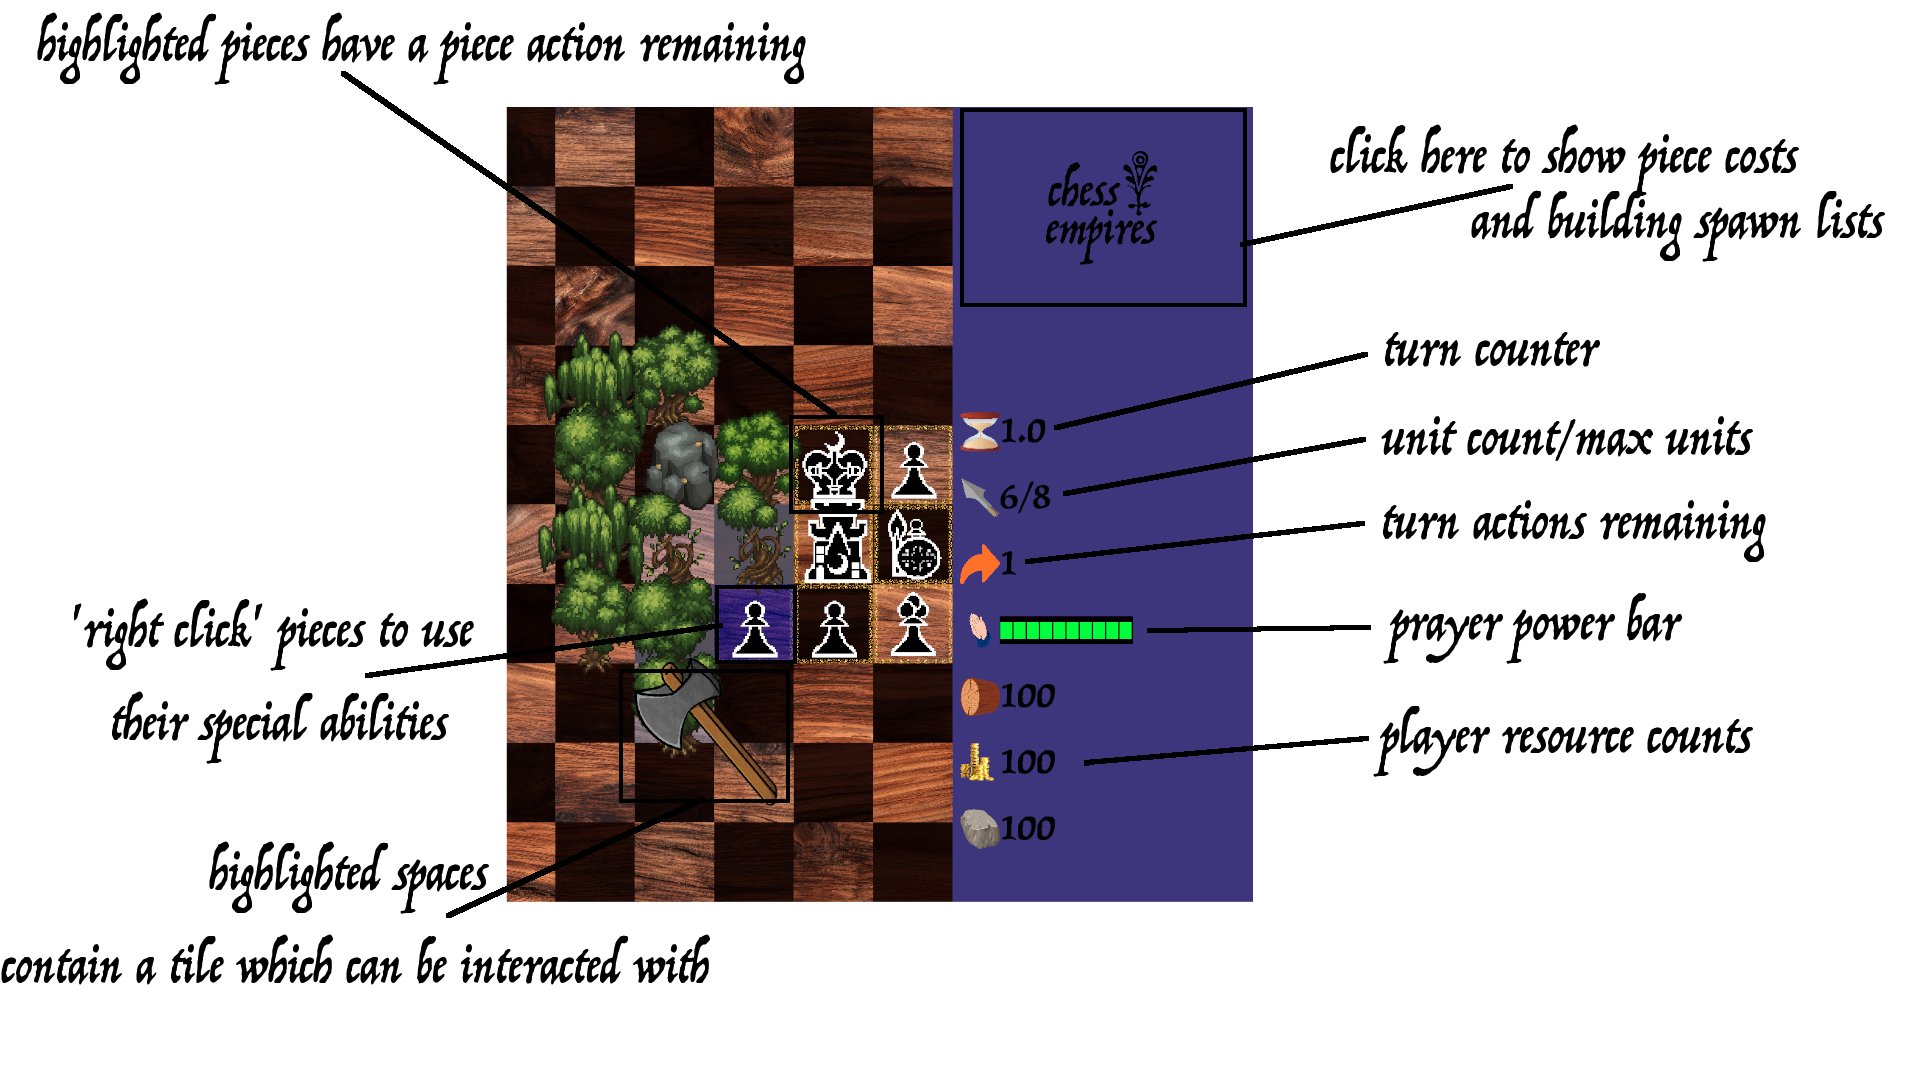
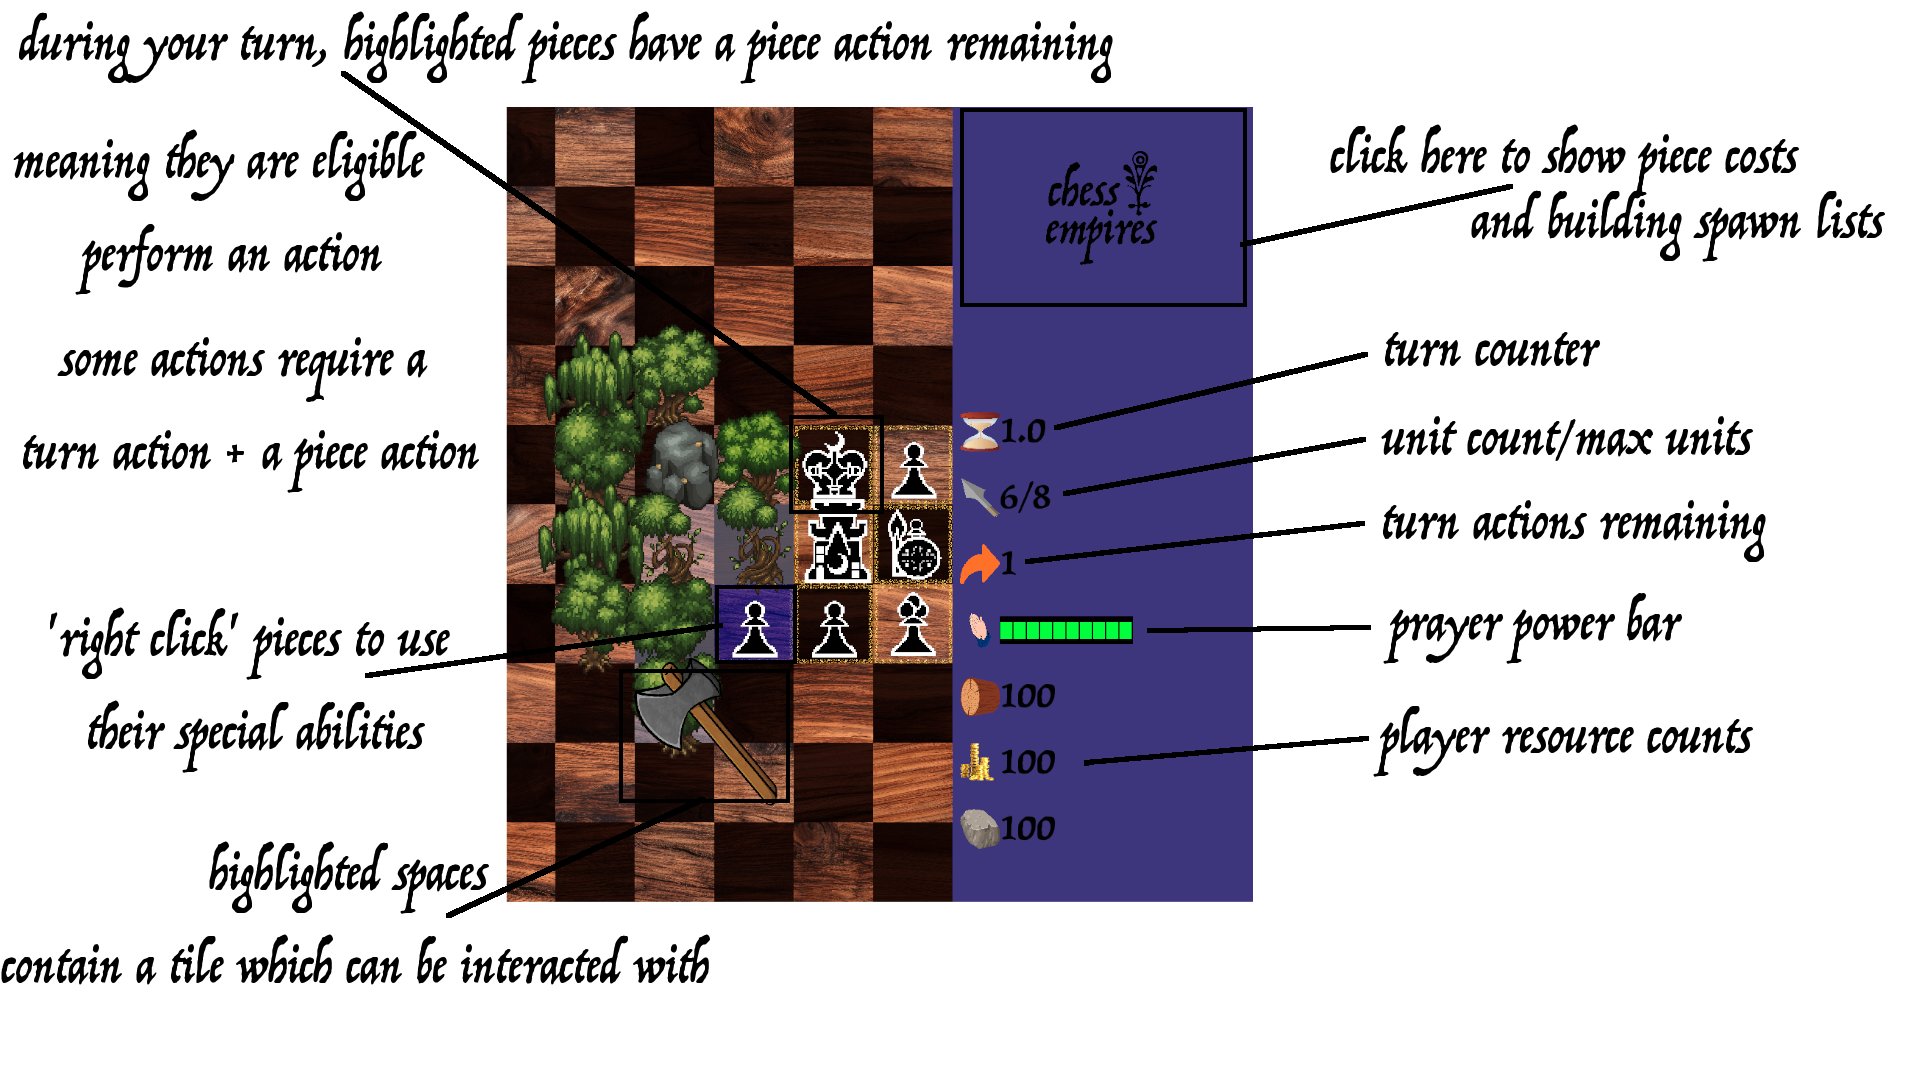
Completed 11 instructional documents and added them to the instructions menu. Gameplay should be much more intuitive now

diff --git a/Menu.py b/Menu.py
@@ -1210,7 +1210,7 @@ class Encyclopedia(Menu):
 
     def get_menu_logo(self, piece):
         menu_logo = None
-        if piece != "Costs":
+        if piece != "costs":
             try:
                 piece = self.engine.turn + "_" + str(self)
             except TypeError:
@@ -1326,9 +1326,12 @@ class PieceDescription(Encyclopedia):
             count = sum(
                     1 for cost in Constant.PIECE_COSTS[self.selected] if Constant.PIECE_COSTS[self.selected][cost] != 0)
             full_length = self.resources['wood'].get_width() * count + (self.x_buffer_between_costs // 2) * count
-            self.cost_display_x = self.window_width // 2 - full_length // 2 + self.board_x // 2 + self.board_surface.get_width() // 2
-            self.title_text_display_x = self.window_width // 2 - self.title_text_width // 2 + self.board_x // 2 + self.board_surface.get_width() // 2
-            self.menu_logo_display_x = self.window_width // 2 - self.menu_logo.get_width() // 2 + self.board_x  // 2 + self.board_surface.get_width() // 2
+            self.cost_display_x = (self.window_width // 2 - full_length // 2 + self.board_x // 2 +
+                                   self.board_surface.get_width() // 2)
+            self.title_text_display_x = (self.window_width // 2 - self.title_text_width // 2 + self.board_x // 2 +
+                                         self.board_surface.get_width() // 2)
+            self.menu_logo_display_x = (self.window_width // 2 - self.menu_logo.get_width() // 2 + self.board_x // 2 +
+                                        self.board_surface.get_width() // 2)
             self.set_up_demonstration_board()
         elif self.type == 'ritual':
             length_of_this_prayer_bar: int = self.full_length_of_prayer_bar(self.cost)
@@ -1395,7 +1398,6 @@ class PieceDescription(Encyclopedia):
         self.board[row][col].set_occupying(self.engine.PIECES[self.selected](row, col, color))
         self.board[row][col].get_occupying().update_move_squares(self.engine)
         self.board[row][col].get_occupying().display_moves = True
-
 
     def justify_text(self, font, text, max_width, color):
         """ Formats and displays text within a given width using a pygame font.
@@ -1667,7 +1669,7 @@ class Master(CostMenu):
         super().__init__(win, engine, spawn_list)
 
     def __repr__(self):
-        return 'Costs'
+        return 'costs'
 
     def left_click(self):
         piece_selected = self.piece_selected()
@@ -1856,43 +1858,118 @@ class Empty(SideMenu):
 
 
 class PieceInspector(SideMenu):
-    def __init__(self, win, engine, currently_selected):
+    def __init__(self, win: pygame.Surface, engine: "Engine", currently_selected: "Unit") -> None:
+        # Initialize the parent class with window and engine
         super().__init__(win, engine)
-        self.PIECES = {
+
+        # Dictionary mapping player colors to their respective pieces and buildings
+        self.PIECES: Dict[str, Dict[str, pygame.Surface]] = {
             'w': Constant.W_PIECES | Constant.W_BUILDINGS,
             'b': Constant.B_PIECES | Constant.B_BUILDINGS
         }
-        self.font_size = round(Constant.SQ_SIZE / 3.5)
-        self.small_font_size = round(Constant.SQ_SIZE / 4)
-        self.font = pygame.font.Font(os.path.join("files/fonts", "font.ttf"), self.font_size)
-        self.small_font = pygame.font.Font(os.path.join("files/fonts", 'font.ttf'), self.small_font_size)
+
+        # Define font sizes based on the square size constant
+        self.font_size: int = round(Constant.SQ_SIZE / 3.5)
+        self.small_font_size: int = round(Constant.SQ_SIZE / 4)
+
+        # Load fonts from the specified file path
+        self.font: pygame.font.Font = pygame.font.Font(os.path.join("files/fonts", "font.ttf"), self.font_size)
+        self.small_font: pygame.font.Font = pygame.font.Font(os.path.join("files/fonts", 'font.ttf'),
+                                                             self.small_font_size)
+
+        # Get the current player based on engine's turn
         self.player = self.engine.players[self.engine.turn]
-        self.buffer = Constant.SQ_SIZE // 2
-        self.RESOURCES = {
-            'wood' : Constant.MENU_ICONS['log'], 'gold': Constant.MENU_ICONS['gold_coin'],
+
+        # Set buffer space size
+        self.buffer: int = Constant.SQ_SIZE // 2
+
+        # Dictionary mapping resource names to their corresponding menu icons
+        self.RESOURCES: Dict[str, pygame.Surface] = {
+            'wood' : Constant.MENU_ICONS['log'],
+            'gold' : Constant.MENU_ICONS['gold_coin'],
             'stone': Constant.MENU_ICONS['stone']
         }
-        self.space = self.small_font.render(" ", True, Constant.WHITE)
-        self.piece = currently_selected
-        self.color = Constant.turn_to_color[self.piece.color]
-        self.description_text = Constant.DESCRIPTIONS[str(self.piece)]
-        self.description_text_surfaces = []
-        description_string = ""
-        for line in self.description_text:
-            if line[0] != "?":
-                description_string += line + ". "
-            else:
-                description_string = " "
-        description_text_list = description_string.split()
-        for word in description_text_list:
-            text_surface = self.small_font.render(word, True, self.color)
-            self.description_text_surfaces.append(text_surface)
-        if description_string != " ":
-            self.description_text_width = self.description_text_surfaces[0].get_width()
-            self.description_text_height = self.description_text_surfaces[0].get_height()
 
-        self.piece_identifier = self.piece.color + "_" + str(self.piece)
-        self.sprite = self.PIECES[self.piece.color][self.piece_identifier]
+        # Render a space character to be used for spacing
+        self.space: pygame.Surface = self.small_font.render(" ", True, Constant.WHITE)
+
+        # Store the currently selected piece
+        self.piece: Unit = currently_selected
+
+        # Determine the piece's color based on turn mapping
+        self.color: tuple = Constant.turn_to_color[self.piece.color]
+
+        # Retrieve the description text for the selected piece
+        self.description_text: List[str] = Constant.DESCRIPTIONS[str(self.piece)]
+
+        # List to store rendered description text surfaces
+        self.description_text_surfaces: List[List[pygame.Surface]] = []
+
+        # Process description text and ensure each new string starts on a new line
+        for line in self.description_text:
+            if line[0] == "?":
+                line = " "
+            words = line.split()
+            line_surfaces = [self.small_font.render(word, True, self.color) for word in words]
+            self.description_text_surfaces.append(line_surfaces)
+
+        # Store the width and height of the first rendered word if description is not empty
+        if self.description_text_surfaces and self.description_text_surfaces[0]:
+            self.description_text_width: int = self.description_text_surfaces[0][0].get_width()
+            self.description_text_height: int = self.description_text_surfaces[0][0].get_height()
+
+        # Construct the piece identifier string
+        self.piece_identifier: str = self.piece.color + "_" + str(self.piece)
+
+        # Retrieve the sprite for the selected piece based on its identifier
+        self.sprite: pygame.Surface = self.PIECES[self.piece.color][self.piece_identifier]
+
+    def draw(self) -> None:
+        """Draws the piece details onto the menu screen."""
+        self.menu.fill(Constant.MENU_COLOR)
+
+        # Display sprite
+        self.menu.blit(self.sprite, (self.menu_width // 2 - self.sprite.get_width() // 2, self.buffer))
+
+        # Display name
+        name = self.make_name_more_readable()
+        name_surface = self.font.render(name, True, self.color)
+        self.menu.blit(name_surface,
+                       (self.menu_width // 2 - name_surface.get_width() // 2, self.buffer + self.sprite.get_height()))
+
+        # Display cost
+        cost = Constant.PIECE_COSTS[str(self.piece)]
+        y_buffer = self.buffer + name_surface.get_height() + self.sprite.get_height()
+        for resource in cost:
+            if cost[resource] != 0:
+                color = self.color if getattr(self.player, Constant.RESOURCE_KEY[resource]) >= cost[
+                    resource] else Constant.RED
+                text_surf = self.font.render(str(cost[resource]), True, color)
+                resource_icon = self.RESOURCES[Constant.RESOURCE_KEY[resource]]
+                resource_x = self.menu_width // 2 - (text_surf.get_width() // 2 + resource_icon.get_width() // 2)
+                self.menu.blit(resource_icon, (resource_x, y_buffer))
+                self.menu.blit(text_surf,
+                               (resource_x + resource_icon.get_width(), y_buffer - text_surf.get_height() // 8))
+            y_buffer += name_surface.get_height()
+
+        # Display piece description with line breaks
+        if self.description_text_surfaces:
+            original_x = self.menu_width // 16
+            x = original_x
+            for line in self.description_text_surfaces:
+                y_buffer += self.description_text_height  # Move to the next line for each description entry
+                x = original_x
+                for word in line:
+                    if x + word.get_width() + self.space.get_width() >= self.menu_width:
+                        y_buffer += self.description_text_height
+                        x = original_x
+                    self.menu.blit(word, (x, y_buffer))
+                    x += word.get_width()
+                    self.menu.blit(self.space, (x, y_buffer))
+                    x += self.space.get_width()
+
+        # Render the menu onto the game window
+        self.win.blit(self.menu, (Constant.BOARD_WIDTH_SQ * Constant.SQ_SIZE, 0))
 
     def make_name_more_readable(self):
         name = str(self.piece)
@@ -1902,55 +1979,6 @@ class PieceInspector(SideMenu):
 
         name = name.replace('_', ' ')
         return name
-
-    def draw(self):
-        self.menu.fill(Constant.MENU_COLOR)
-        # display sprite
-
-        self.menu.blit(self.sprite, (self.menu_width // 2 - self.sprite.get_width() // 2, self.buffer))
-        # display name
-
-        name = self.make_name_more_readable()
-
-        name_surface = self.font.render(name, True, self.color)
-        self.menu.blit(name_surface,
-                       (self.menu_width // 2 - name_surface.get_width() // 2, self.buffer + self.sprite.get_height()))
-
-        # cost
-        cost = Constant.PIECE_COSTS[str(self.piece)]
-        y_buffer = self.buffer + name_surface.get_height() + self.sprite.get_height()
-        for resource in cost:
-            if cost[resource] != 0:
-                if getattr(self.player, Constant.RESOURCE_KEY[resource]) >= cost[resource]:
-                    color = self.color
-                else:
-                    color = Constant.RED
-                text_surf = self.font.render("" + str(cost[resource]), True, color)
-                resource = self.RESOURCES[Constant.RESOURCE_KEY[resource]]
-                resource_position_x = self.menu_width // 2 - (text_surf.get_width() // 2 + resource.get_width() // 2)
-                resource_position = (resource_position_x, y_buffer)
-                self.menu.blit(resource, resource_position)
-
-                cost_text_position = (
-                    resource_position_x + resource.get_width(), y_buffer - text_surf.get_height() // 8)
-
-                self.menu.blit(text_surf, cost_text_position)
-            y_buffer += name_surface.get_height()
-
-        # Piece description
-        if self.description_text_surfaces is not None:
-            original_description_text_x = self.menu_width // 16
-            description_text_x = original_description_text_x
-            for word in self.description_text_surfaces:
-                if description_text_x + word.get_width() + self.space.get_width() >= self.menu_width:
-                    y_buffer += self.description_text_height
-                    description_text_x = original_description_text_x
-                self.menu.blit(word, (description_text_x, y_buffer))
-                description_text_x += word.get_width()
-                self.menu.blit(self.space, (description_text_x, y_buffer))
-                description_text_x += self.space.get_width()
-
-        self.win.blit(self.menu, (Constant.BOARD_WIDTH_SQ * Constant.SQ_SIZE, 0))
 
 
 class StartMenu(SideMenu):

diff --git a/State.py b/State.py
@@ -720,9 +720,6 @@ class MainMenu(State):
 
                 # Perform action based on which button was clicked
                 if i == 0:
-                    # Play button
-                    self.engine.create_player('w')
-                    self.engine.create_player('b')
                     Constant.PLAY_AGAINST_AI = False
                     self.engine.set_state('starting')
                 elif i == 1:
@@ -1298,6 +1295,9 @@ class Playing(State):
 class Starting(State):
     def __init__(self, win, engine, preserve_resources=False):
         super().__init__(win, engine)
+        # Play button
+        self.engine.create_player('w')
+        self.engine.create_player('b')
         self.side_bar = StartMenu(win, engine)
         if not preserve_resources:
             if Constant.BOARD_STARTS_WITH_RESOURCES:
@@ -1594,74 +1594,6 @@ class AIPlaying(State):
         self.act()
 
 
-class AIStartingSpawn(State):
-    def __init__(self, win, engine):
-        super().__init__(win, engine)
-        self.side_bar = Empty(win, engine)
-        self.first = True
-        self.engine.sounds.play('start_game')
-        self.turn_events = []
-        self.directions = (Constant.RIGHT, Constant.LEFT, Constant.UP, Constant.DOWN,
-                           Constant.UP_RIGHT, Constant.UP_LEFT, Constant.DOWN_RIGHT,
-                           Constant.DOWN_LEFT)
-
-    def __repr__(self):
-        return 'start spawn'
-
-    def create_ai_player(self):
-        if not Constant.TURNS[self.engine.turn] in self.engine.players:
-            self.engine.create_ai(Constant.TURNS[self.engine.turn])
-
-        turn_change_event = ChangeTurn(self.engine)
-        turn_change_event.complete()
-        self.turn_events.append(turn_change_event)
-
-        self.engine.spawn_count = 0
-        self.engine.final_spawn = True
-
-        ai = self.engine.players[self.engine.turn]
-        choice = ai.behavior.select_starting_square(self.engine)
-
-        self.engine.spawn_list = ai.behavior.select_starting_pieces()
-        self.engine.spawning = 'castle'
-        self.create_ai_spawn_event(choice[0], choice[1], False)
-        self.engine.spawn_count = 0
-        self.engine.update_spawn_squares()
-        spawn_squares_list = self.engine.get_occupying(choice[0], choice[1]).spawn_squares_list
-        placements = ai.behavior.starting_piece_placements(self.engine.spawn_list, spawn_squares_list)
-        self.engine.update_spawn_squares()
-        for _ in self.engine.spawn_list:
-            self.engine.spawning = self.engine.spawn_list[self.engine.spawn_count]
-            row, col = placements[self.engine.spawn_count][0], placements[self.engine.spawn_count][1]
-            self.create_ai_spawn_event(row, col)
-        self.end_start_spawning()
-
-    def end_start_spawning(self):
-        self.engine.reset_selected()
-        self.engine.reset_piece_actions_remaining()
-        self.engine.spawn_success = False
-        unused_pieces = self.engine.count_unused_pieces()
-        for piece in unused_pieces:
-            piece.unused_piece_highlight = True
-        self.engine.reset_player_actions_remaining(self.engine.turn)
-        self.engine.update_additional_actions()
-        self.engine.update_piece_limit()
-        self.engine.spawn_count = 0
-        new_state = AIPlaying(self.win, self.engine, self.turn_events)
-        self.engine.set_state(new_state)
-        new_state.complete_turn()
-
-    def create_ai_spawn_event(self, row, col, first=True):
-        action_tile = self.engine.board[row][col]
-        acting_tile = self.engine.update_previously_selected()
-        event = StartSpawn(self.engine, acting_tile, action_tile)
-        event.complete()
-        self.turn_events.append(event)
-        self.engine.update_spawn_squares()
-        self.first = first
-        self.engine.spawn_count += 1
-
-
 class StartingSpawn(State):
     def __init__(self, win, engine):
         super().__init__(win, engine)
@@ -1678,6 +1610,7 @@ class StartingSpawn(State):
         new_state.create_ai_player()
 
     def begin_next_player_piece_select(self):
+
         event = ChangeTurn(self.engine)
         event.complete()
         self.engine.events.append(event)

diff --git a/Settings.py b/Settings.py
@@ -24,7 +24,7 @@ DEBUG_STARTING_PRAYER = 10
 DEBUG_STARTING_WOOD = 100
 DEBUG_STARTING_GOLD = 100
 DEBUG_STARTING_STONE = 100
-DEBUG_STARTING_PIECES = ['castle', 'king', 'pawn', 'pawn', 'pawn', 'builder', 'pikeman']
+DEBUG_STARTING_PIECES = ['castle', 'king', 'duke', 'elephant']
 
 # Window and board sizes
 MAX_FPS = 120
@@ -229,7 +229,7 @@ NOTIFICATIONS = {
     'check'              : ['your king is in check']
 }
 DESCRIPTIONS = {
-    'king'            : ['every player gets one.', 'capture your opponent\'s to win'],
+    'king'            : ['every player gets one.', '\'right click\' to surrender.', 'checkmate your opponent\'s and they will have to surrender'],
     'gold_general'    : ['???'],
     'quarry_1'        : ['can be mined for stone.', 'may cave in and begin to yield less stone.',
                          'eventually becomes depleted if mined after it caves in.'],
@@ -272,7 +272,7 @@ DESCRIPTIONS = {
                          'can capture walls.'],
     'champion'        : ['moves diagonally one square.',
                          'after moving, slides to move orthogonally.'],
-    'assassin'        : ['moves by swapping places with enemy pieces.', 'captures one space in all directions'],
+    'assassin'        : ['\'right click\' to swap places with an enemy piece.', 'captures one space in all directions'],
     'elephant'        : ['leaps over another piece up two and over one.',
                          'if it\'s knight move was unobstructed it can move forward one more square',
                          'can capture walls.'],

diff --git a/Engine.py b/Engine.py
@@ -159,7 +159,7 @@ class Engine:
             'destroy_resource': PerformDestroyResource,
             'create_resource' : PerformCreateResource, 'portal': PerformPortal, 'teleport': PerformTeleport,
             'swap'            : PerformSwap, 'line_destroy': PerformLineDestroy, 'protect': PerformProtect,
-            'main menu'       : MainMenu, 'debug': DebugStart, 'ai start spawn': AIStartingSpawn, 'inspector': Inspector,
+            'main menu'       : MainMenu, 'debug': DebugStart, 'inspector': Inspector,
             'instructions': Instructions, 'pause': Pause
         }
 

diff --git a/Constant.py b/Constant.py
@@ -250,7 +250,7 @@ for i in range(8):
     change_turn.append(i)
 for i in range(4):
     start_game.append(i)
-for i in range(5):
+for i in range(11):
     instructions.append(i)
 
 
